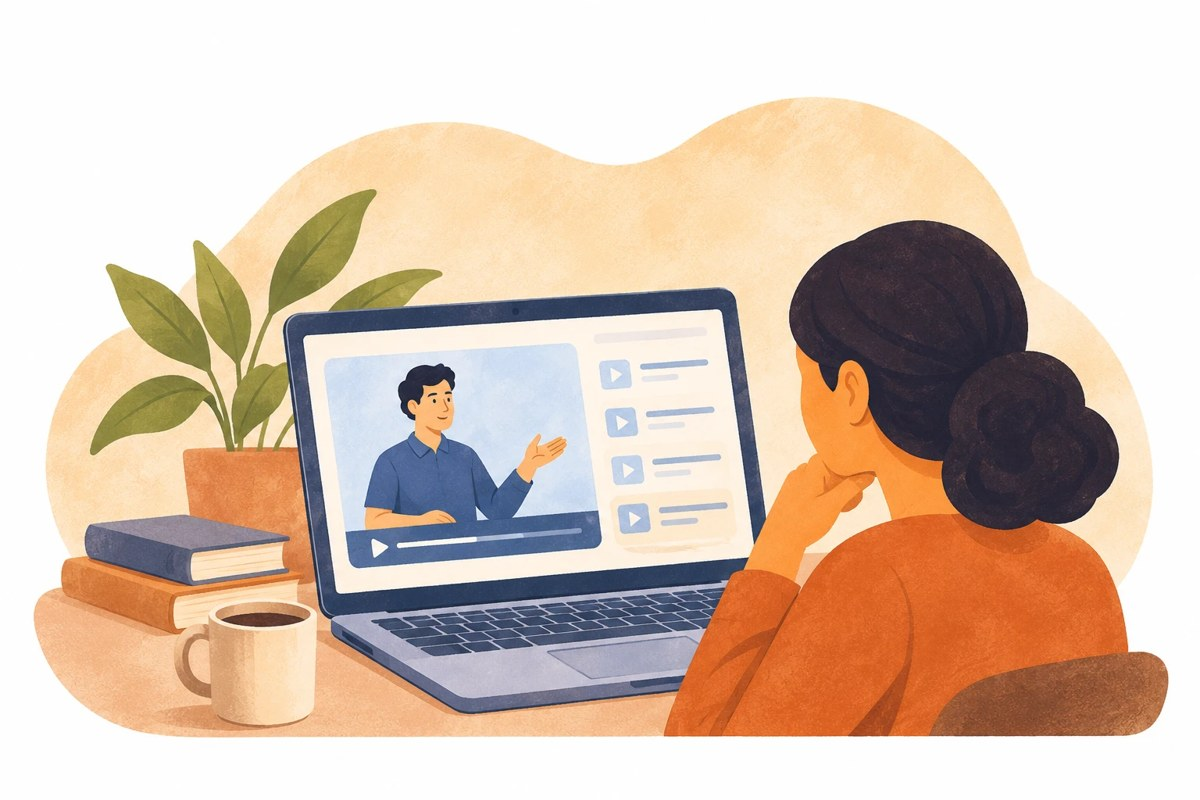
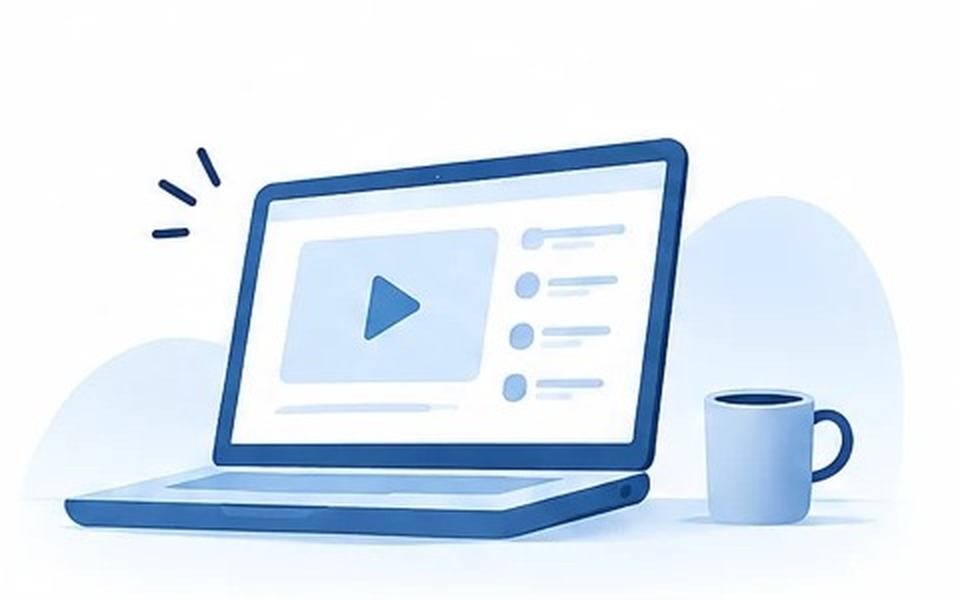
Shortlist: use new service illustrations; Ledgerhouse cards on light panel
Claude-Session: https://claude.ai/code/session_01XfvvjyBa219y9qsxsCGa1L

diff --git a/shortlist/index.html b/shortlist/index.html
@@ -1763,6 +1763,15 @@ main .sx:not(.trust) { background: var(--sbg, transparent); }
 @media (max-width: 640px) { [data-d="h"] .srl { grid-template-columns: 1fr; } [data-d="h"] .svr { height: 340px; } }
 </style>
 <style>
+/* illustrations sit on a light panel above the text, no photo overlay */
+[data-d="h"] .svr { height: auto; justify-content: flex-start; background: #0A1526; }
+[data-d="h"] .sri { position: relative; inset: auto; z-index: 0; aspect-ratio: 8 / 5; background: #fff; }
+[data-d="h"] .sri img { width: 100%; height: 100%; object-fit: cover; }
+[data-d="h"] .svr::after { display: none; }
+[data-d="h"] .srb { padding: 24px 26px 76px; min-height: 190px; }
+@media (max-width: 720px) { [data-d="h"] .svr { height: auto; } }
+</style>
+<style>
 [data-d="h"] .wl-pol .stamp { background: #fff; color: #0A1526; border: 1px solid rgba(10,21,38,.08); box-shadow: 0 20px 44px -34px rgba(10,21,38,.4); align-items: center; }
 [data-d="h"] .wl-pol .st-l { align-items: center; }
 [data-d="h"] .wl-pol .stamp .cat-t { color: #0A1526; line-height: 1; }
